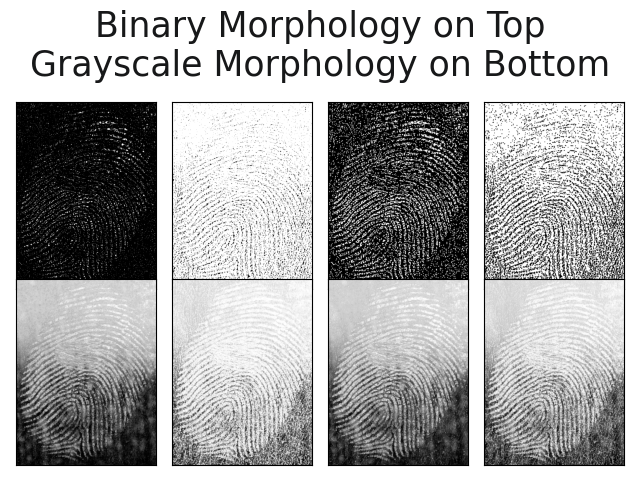
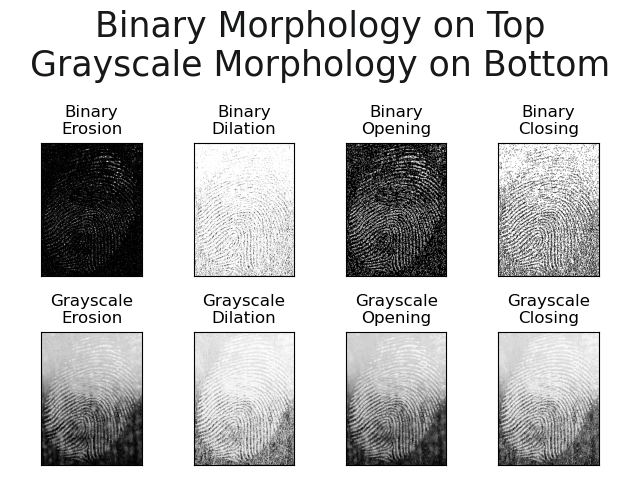
Subplot titles added

diff --git a/CSC515/Module5/latentfingerprint.py b/CSC515/Module5/latentfingerprint.py
@@ -47,11 +47,16 @@ openingb = cv2.morphologyEx(binary_img2, cv2.MORPH_OPEN, kernel)
 # Close
 closingb = cv2.morphologyEx(binary_img2, cv2.MORPH_CLOSE, kernel)
 
+# Source: https://docs.opencv.org/4.x/d7/d4d/tutorial_py_thresholding.html
 images = [erosionb, dilationb, openingb, closingb,
           erosion, dilation, opening, closing]
+titles = ['Binary\nErosion', 'Binary\nDilation', 'Binary\nOpening', 'Binary\nClosing',
+          'Grayscale\nErosion', 'Grayscale\nDilation', 'Grayscale\nOpening', 'Grayscale\nClosing']
 for i in range(8):
-    plt.subplot(2,4,i+1),plt.imshow(images[i],'gray')
-    plt.xticks([]),plt.yticks([])
+    plt.subplot(2, 4, i+1), plt.imshow(images[i], 'gray')
+    plt.xticks([]), plt.yticks([])
+    plt.title(titles[i])
+    plt.tight_layout()
 plt.suptitle('Binary Morphology on Top\nGrayscale Morphology on Bottom', fontsize = 25).set_color('#171819')
 plt.tight_layout()
 plt.show()
